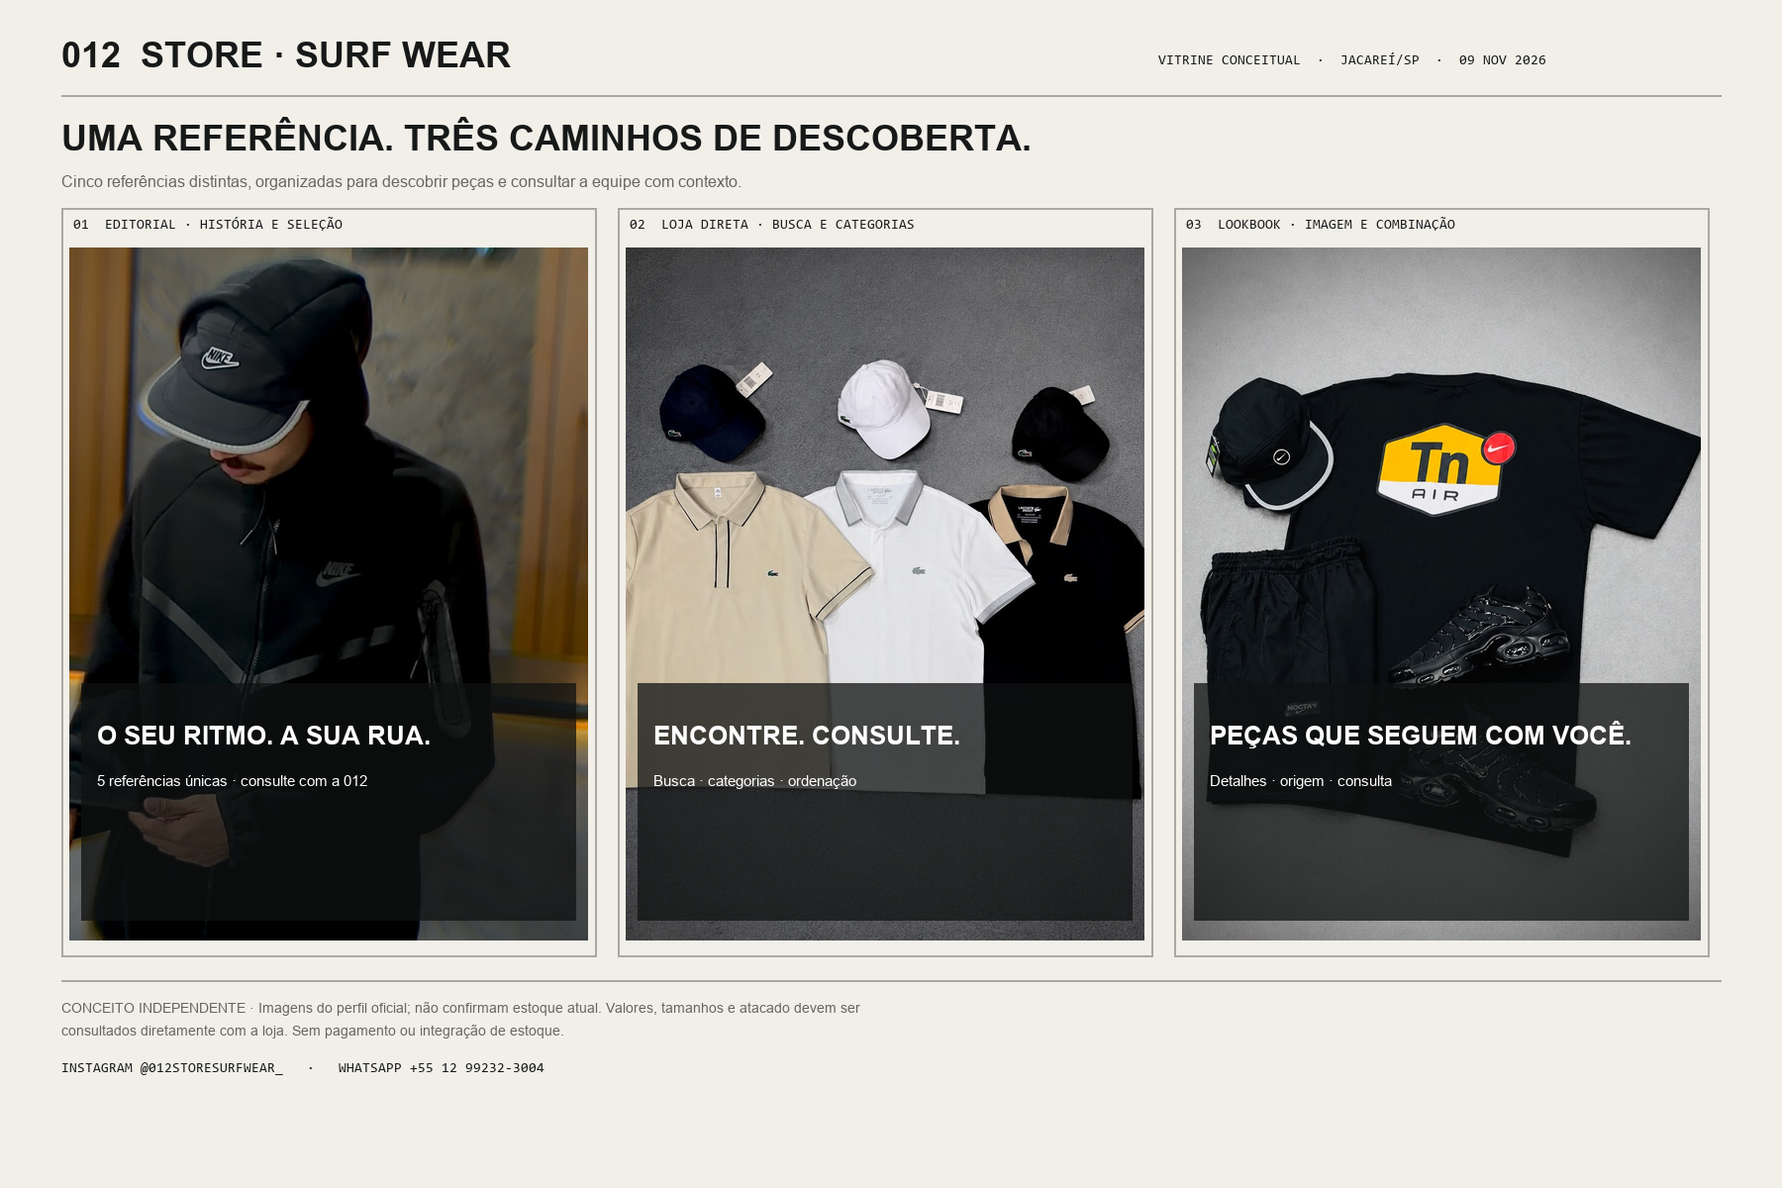
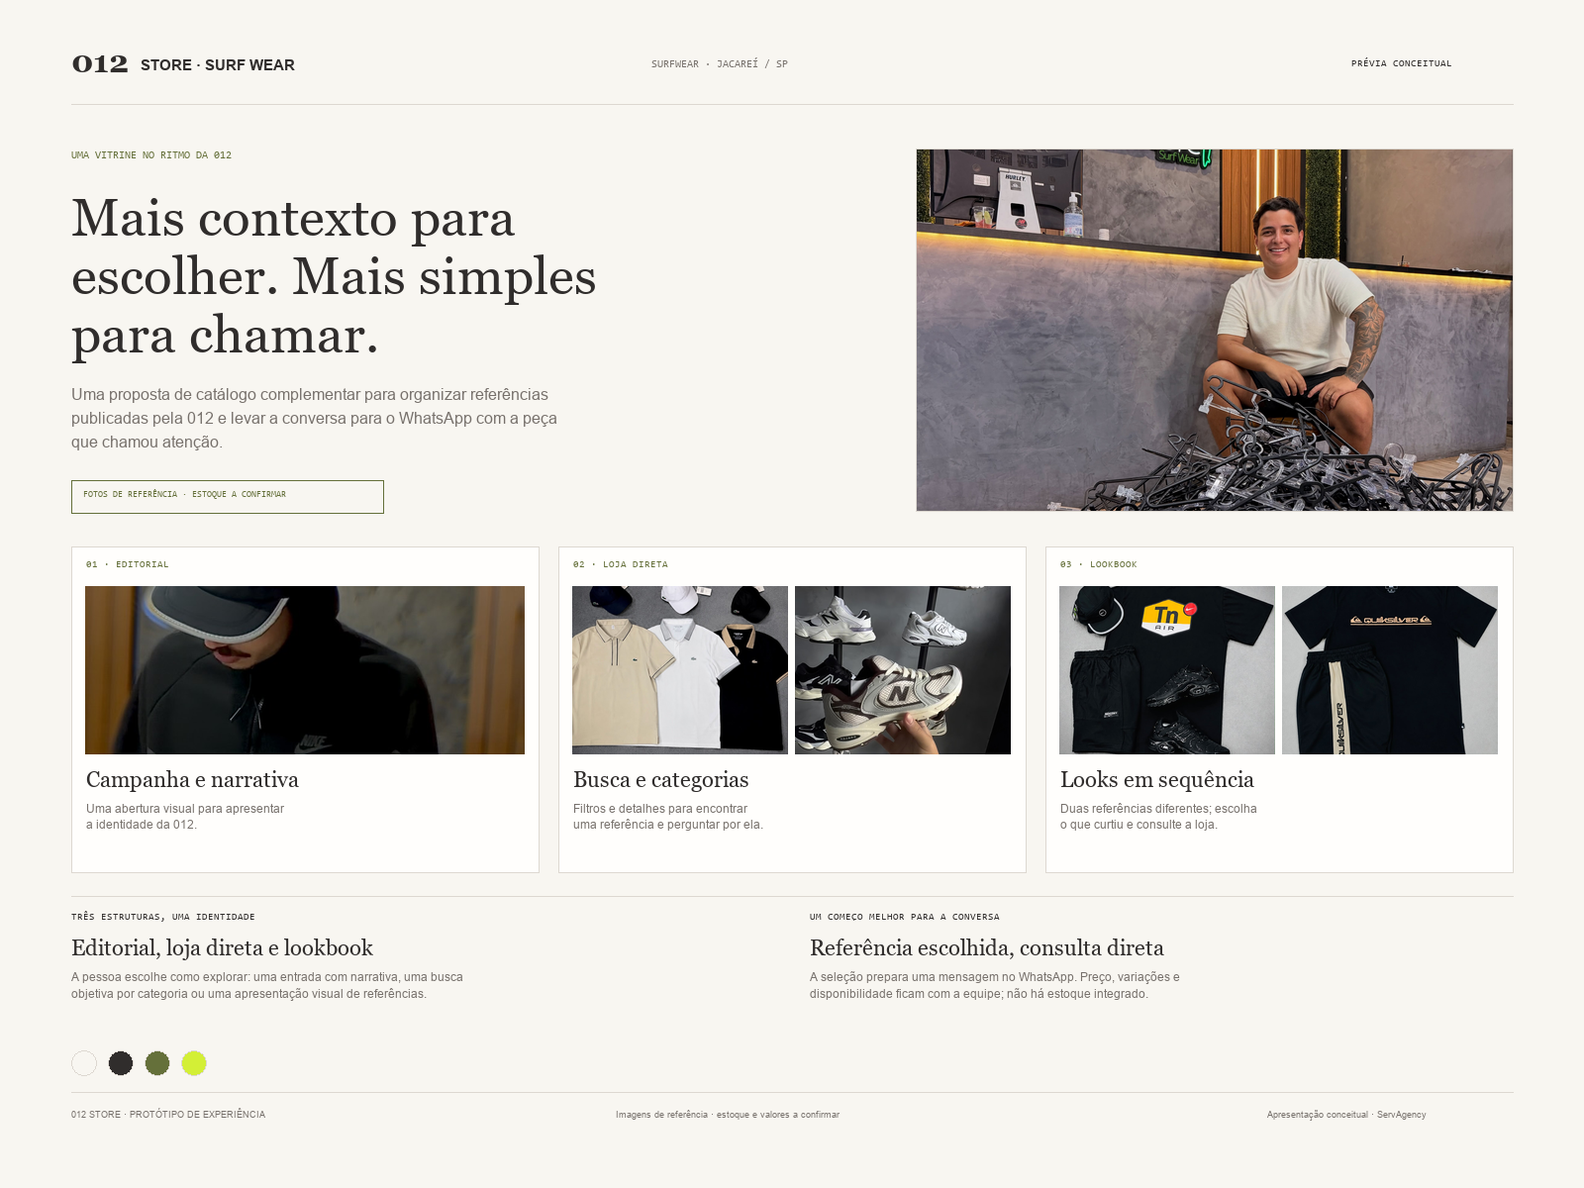
Redesign 012 Store presentation board in editorial style

diff --git a/arte/prancha.html b/arte/prancha.html
@@ -1,7 +1,21 @@
-<!doctype html><html lang="pt-BR"><head><meta charset="utf-8"><meta name="viewport" content="width=device-width,initial-scale=1"><title>012 Store · prancha de conceito</title><style>
-*{box-sizing:border-box}body{margin:0;background:#dddcd5;color:#171919;font-family:Arial,sans-serif}.board{width:1800px;height:1200px;margin:0 auto;background:#f1efe8;padding:54px 66px 34px;overflow:hidden}.head{display:flex;justify-content:space-between;align-items:flex-start;border-bottom:1px solid #b7b5ac;padding-bottom:21px}.logo{font-size:33px;font-weight:900;letter-spacing:-2px}.logo span{font-size:13px;letter-spacing:4px;border-left:4px solid #d3ef36;padding-left:9px;margin-left:8px}.kicker{font:10px 'Courier New',monospace;letter-spacing:2px}.title{display:flex;justify-content:space-between;align-items:end;padding:23px 0 23px}.title h1{font-size:46px;line-height:.91;letter-spacing:-2px;text-transform:uppercase;margin:0}.title h1 em{font-style:normal;color:#77860e}.title p{max-width:470px;color:#65655e;font-size:13px;line-height:1.6;margin:0}.cards{display:grid;grid-template-columns:repeat(3,1fr);gap:18px}.card{border:1px solid #c9c7bf;background:white}.label{height:46px;display:flex;align-items:center;justify-content:space-between;padding:0 13px;font:11px 'Courier New',monospace}.label b{font-size:18px;margin-right:8px}.window{height:785px;position:relative;overflow:hidden;background:#111}.window img{position:absolute;width:100%;height:100%;object-fit:cover}.tint{position:absolute;inset:0;background:linear-gradient(90deg,#f1efe8 0%,rgba(241,239,232,.93) 47%,transparent 90%)}.loja{background:#f3f3f0;padding:17px}.loja h3{font-size:28px;line-height:.88;margin:8px 0 14px}.loja .heroimg{position:relative;width:100%;height:420px;object-fit:cover;display:block}.tiles{display:grid;grid-template-columns:1fr 1fr;gap:8px;margin-top:8px}.tiles img{height:190px;position:static;object-fit:cover}.dark img{filter:brightness(.78) saturate(.8)}.dark .overlay{position:absolute;inset:0;background:linear-gradient(180deg,transparent 25%,rgba(8,10,9,.9));display:flex;flex-direction:column;justify-content:flex-end;padding:22px;color:white}.overlay h3{font-size:36px;line-height:.86;margin:12px 0}.overlay small{font:9px 'Courier New',monospace;letter-spacing:1px}.feature{display:flex;justify-content:space-between;gap:15px;padding:19px 0 17px;border-bottom:1px solid #bbb}.feature div{flex:1;border-top:2px solid #171919;padding-top:9px;font-size:10px;color:#555;line-height:1.5}.feature b{display:block;font-size:10px;color:#171919;letter-spacing:.7px;margin-bottom:3px;text-transform:uppercase}.foot{display:flex;justify-content:space-between;align-items:end;padding-top:15px}.foot p{font-size:9px;line-height:1.5;color:#666;max-width:1160px;margin:0}.pill{background:#171919;color:#d3ef36;padding:12px 15px;font:9px 'Courier New',monospace;letter-spacing:1px}@media print{body{background:white}.board{margin:0}}
-</style></head><body><main class="board"><header class="head"><div class="logo">012<span>STORE · SURF WEAR</span></div><div class="kicker">VITRINE CONCEITUAL · JACAREÍ / SP · 09 NOV 2026</div></header><section class="title"><h1>Uma referência.<br><em>Três caminhos de descoberta.</em></h1><p>Uma vitrine complementar para organizar peças publicadas pela 012 Store, com consulta direta à equipe.</p></section><section class="cards">
-<article class="card"><header class="label"><span><b>01</b> EDITORIAL · HISTÓRIA E SELEÇÃO</span><span>●</span></header><div class="window"><img src="../assets/catalog-tech-fleece.jpg"><div class="tint"></div><div style="position:absolute;left:22px;top:48px;color:#171919"><small style="font:9px 'Courier New'">SURF · STREET · JACAREÍ</small><h3 style="font-size:43px;line-height:.86;letter-spacing:-2px;margin:25px 0">O seu ritmo.<br>A sua rua.</h3><p style="font-size:10px;max-width:180px;line-height:1.5">Cinco referências distintas. Explore, filtre e consulte cada peça com a 012.</p><span class="pill" style="display:inline-block;margin-top:12px">EXPLORAR PEÇAS ↓</span></div></div></article>
-<article class="card"><header class="label"><span><b>02</b> LOJA DIRETA · BUSCA E CATEGORIA</span><span>●</span></header><div class="window loja"><small style="font:9px 'Courier New'">TUDO　 CONJUNTOS　 POLOS　 CALÇADOS</small><h3>Encontre.<br>Consulte.</h3><img class="heroimg" src="../assets/catalog-polos.jpg"><div class="tiles"><img src="../assets/catalog-quiksilver-set.jpg"><img src="../assets/catalog-sneakers.jpg"></div></div></article>
-<article class="card"><header class="label"><span><b>03</b> LOOKBOOK · IMAGEM E COMBINAÇÃO</span><span>●</span></header><div class="window dark"><img src="../assets/catalog-tnf-set.jpg"><div class="overlay"><small>012 · CINCO REFERÊNCIAS ÚNICAS</small><h3>Peças que<br>seguem com você.</h3><small>BUSCA　✳　FILTROS　✳　CONSULTA</small></div></div></article></section>
-<section class="feature"><div><b>Cinco referências únicas</b>Sem duplicar ângulos ou variantes como itens.</div><div><b>Consulta com contexto</b>Selecione várias peças para montar mensagem no WhatsApp.</div><div><b>Origem transparente</b>Detalhes abrem a publicação correspondente do Instagram.</div><div><b>Catálogo navegável</b>Busca, filtros, ordenação e cartões adaptáveis ao celular.</div></section><footer class="foot"><p>Conceito independente, não oficial. Fotos são referências publicadas pela loja, não confirmação de estoque atual. Valores, tamanhos, disponibilidade e atacado devem ser confirmados diretamente. Sem pagamento ou integração de estoque.<br>Endereço e WhatsApp exibidos a partir do perfil oficial; confirmar informações antes de uso operacional.</p><span class="pill">012 STORE · CONCEITO DIGITAL</span></footer></main></body></html>
+<!doctype html>
+<html lang="pt-BR">
+<head>
+<meta charset="utf-8">
+<meta name="viewport" content="width=device-width,initial-scale=1">
+<title>012 Store · prancha de conceito</title>
+<style>
+:root{--paper:#f8f6f1;--card:#fffefc;--ink:#302d2c;--muted:#77716c;--line:#ddd8d1;--olive:#65703a;--lime:#d3ef36;--serif:Georgia,'Times New Roman',serif;--sans:Arial,sans-serif;--mono:'Courier New',monospace}*{box-sizing:border-box}body{margin:0;background:#e8e5df;color:var(--ink);font-family:var(--sans)}.board{width:min(1600px,100%);min-height:1200px;margin:auto;padding:43px 72px 30px;background:var(--paper)}header{height:63px;display:flex;align-items:center;border-bottom:1px solid var(--line);gap:14px}.mark{font:700 32px var(--serif)}.brand{font-weight:700;letter-spacing:.12em;font-size:15px}.context{margin-left:auto;margin-right:auto;color:var(--muted);font:11px var(--mono);letter-spacing:.05em}.concept{font:10px var(--mono);letter-spacing:.1em}.intro{display:grid;grid-template-columns:1fr .88fr;gap:7vw;align-items:center;padding:44px 0 36px}.eyebrow{font:11px var(--mono);letter-spacing:.09em;text-transform:uppercase;color:var(--olive)}h1{font:400 clamp(44px,4vw,59px)/1.02 var(--serif);letter-spacing:-.045em;margin:20px 0 20px}.lead{max-width:670px;color:var(--muted);font-size:16px;line-height:1.65;margin:0 0 18px}.badge{display:inline-block;padding:9px 12px;border:1px solid var(--olive);font:9px var(--mono);letter-spacing:.06em;text-transform:uppercase}.hero-image{height:366px;width:100%;object-fit:cover;object-position:center 42%;border:1px solid var(--line)}.cards{display:grid;grid-template-columns:repeat(3,minmax(0,1fr));gap:20px}.card{background:var(--card);border:1px solid var(--line);padding:14px}.card-label{font:10px var(--mono);letter-spacing:.08em;text-transform:uppercase;color:var(--olive);padding:0 0 12px}.photos{height:170px;display:grid;gap:7px;overflow:hidden}.photos.single{grid-template-columns:1fr}.photos.double{grid-template-columns:1fr 1fr}.photos img{width:100%;height:100%;object-fit:cover}.card h2{font:400 22px var(--serif);margin:12px 0 6px}.card p{font-size:12px;line-height:1.55;color:var(--muted);margin:0}.summary{display:grid;grid-template-columns:1fr 1fr;gap:64px;padding:28px 0 0;margin-top:30px;border-top:1px solid var(--line)}.summary h2{font:400 22px var(--serif);margin:9px 0}.summary p{font-size:12px;line-height:1.6;color:var(--muted);margin:0}.swatches{display:flex;gap:10px;margin:15px 0 0}.swatches span{width:25px;height:25px;border-radius:50%;border:1px solid var(--line)}footer{margin-top:18px;border-top:1px solid var(--line);padding:15px 0 0;display:flex;justify-content:space-between;gap:20px;color:var(--muted);font-size:9px}.footer-center{margin:auto}@media(max-width:900px){.board{min-height:100vh;padding:28px 24px}.intro{gap:26px}.cards{gap:12px}.card{padding:10px}.card h2{font-size:19px}.photos{height:140px}.summary{gap:25px}}@media(max-width:650px){header{height:auto;min-height:62px;flex-wrap:wrap;gap:7px}.context{margin-left:auto}.concept{width:100%;margin:0 0 10px}.intro{grid-template-columns:1fr;padding:30px 0}.hero-image{height:260px}.cards{grid-template-columns:1fr}.photos{height:190px}.summary{grid-template-columns:1fr;gap:20px}footer{flex-wrap:wrap}.footer-center{margin:0}}
+</style>
+</head>
+<body><main class="board">
+<header><span class="mark">012</span><span class="brand">STORE · SURF WEAR</span><span class="context">SURFWEAR · JACAREÍ / SP</span><span class="concept">PRÉVIA CONCEITUAL</span></header>
+<section class="intro"><div><p class="eyebrow">Uma vitrine no ritmo da 012</p><h1>Mais contexto para escolher. Mais simples para chamar.</h1><p class="lead">Uma proposta de catálogo complementar para organizar referências publicadas pela 012 e levar a conversa para o WhatsApp com a peça que chamou atenção.</p><span class="badge">Fotos de referência · estoque a confirmar</span></div><img class="hero-image" src="../assets/loja-012.jpg" alt="Imagem editorial da 012 Store"></section>
+<section class="cards" aria-label="Três caminhos visuais">
+<article class="card"><div class="card-label">01 · Editorial</div><div class="photos single"><img src="../assets/catalog-tech-fleece.jpg" alt="Referência de conjunto Tech Fleece"></div><h2>Campanha e narrativa</h2><p>Uma abertura visual para apresentar a identidade da 012.</p></article>
+<article class="card"><div class="card-label">02 · Loja direta</div><div class="photos double"><img src="../assets/catalog-polos.jpg" alt="Referência de polos"><img src="../assets/catalog-sneakers.jpg" alt="Referência de calçados"></div><h2>Busca e categorias</h2><p>Filtros e detalhes para encontrar uma referência e perguntar por ela.</p></article>
+<article class="card"><div class="card-label">03 · Lookbook</div><div class="photos double"><img src="../assets/catalog-tnf-set.jpg" alt="Referência de conjunto TNF Air"><img src="../assets/catalog-quiksilver-set.jpg" alt="Referência de conjunto Quiksilver"></div><h2>Looks em sequência</h2><p>Duas referências diferentes; escolha o que curtiu e consulte a loja.</p></article>
+</section>
+<section class="summary"><div><p class="eyebrow">Três estruturas, uma identidade</p><h2>Editorial, loja direta e lookbook</h2><p>A pessoa escolhe como explorar: uma entrada com narrativa, uma busca objetiva por categoria ou uma apresentação visual de referências.</p><div class="swatches" aria-label="Paleta visual"><span style="background:#f8f6f1"></span><span style="background:#302d2c"></span><span style="background:#65703a"></span><span style="background:#d3ef36"></span></div></div><div><p class="eyebrow">Um começo melhor para a conversa</p><h2>Referência escolhida, consulta direta</h2><p>A seleção prepara uma mensagem no WhatsApp. Preço, variações e disponibilidade ficam com a equipe; não há estoque integrado.</p></div></section>
+<footer><span>012 STORE · PROTÓTIPO DE EXPERIÊNCIA</span><span class="footer-center">Imagens de referência · estoque e valores a confirmar</span><span>Apresentação conceitual · ServAgency</span></footer>
+</main></body></html>

diff --git a/arte/build_board.py b/arte/build_board.py
@@ -1,37 +1,149 @@
-from PIL import Image, ImageDraw, ImageFont, ImageOps, ImageEnhance
 from pathlib import Path
-import os
-base=Path(r'C:\Users\Home\Documents\ChatGPT\prospecção\012-store-jacarei-conceito')
-W,H=1800,1200
-paper='#f1efe8'; ink='#171919'; lime='#d3ef36'; muted='#66665f'
-im=Image.new('RGB',(W,H),paper); d=ImageDraw.Draw(im)
-def font(name,size):
-    for p in [r'C:\Windows\Fonts\arialbd.ttf' if name=='bold' else r'C:\Windows\Fonts\arial.ttf']:
-        try:return ImageFont.truetype(p,size)
-        except:pass
-    return ImageFont.load_default()
-try: mono=ImageFont.truetype(r'C:\Windows\Fonts\consola.ttf',14)
-except: mono=font('',14)
-d.text((62,35),'012  STORE · SURF WEAR',font=font('bold',36),fill=ink)
-d.text((1170,54),'VITRINE CONCEITUAL  ·  JACAREÍ/SP  ·  09 NOV 2026',font=mono,fill=ink)
-d.line((62,96,1738,96),fill='#aaa89f',width=2)
-d.text((62,119),'UMA REFERÊNCIA. TRÊS CAMINHOS DE DESCOBERTA.',font=font('bold',36),fill=ink)
-d.text((62,174),'Cinco referências distintas, organizadas para descobrir peças e consultar a equipe com contexto.',font=font('',16),fill=muted)
-assets=['catalog-tech-fleece.jpg','catalog-polos.jpg','catalog-tnf-set.jpg']
-labels=['01  EDITORIAL · HISTÓRIA E SELEÇÃO','02  LOJA DIRETA · BUSCA E CATEGORIAS','03  LOOKBOOK · IMAGEM E COMBINAÇÃO']
-for i,(asset,label) in enumerate(zip(assets,labels)):
-    x=62+i*562
-    d.rectangle((x,210,x+540,966),outline='#aaa89f',width=2)
-    d.text((x+12,220),label,font=mono,fill=ink)
-    photo=Image.open(base/'assets'/asset).convert('RGB')
-    photo=ImageOps.fit(photo,(524,700),method=Image.Resampling.LANCZOS)
-    im.paste(photo,(x+8,250))
-    shade=Image.new('RGBA',(500,240),(15,17,17,190)); im.paste(shade,(x+20,690),shade); d=ImageDraw.Draw(im)
-    titles=[('O SEU RITMO. A SUA RUA.','5 referências únicas · consulte com a 012'),('ENCONTRE. CONSULTE.','Busca · categorias · ordenação'),('PEÇAS QUE SEGUEM COM VOCÊ.','Detalhes · origem · consulta')]
-    d.text((x+36,728),titles[i][0],font=font('bold',26),fill='white')
-    d.text((x+36,780),titles[i][1],font=font('',15),fill='white')
-d.line((62,990,1738,990),fill='#aaa89f',width=2)
-d.text((62,1010),'CONCEITO INDEPENDENTE · Imagens do perfil oficial; não confirmam estoque atual. Valores, tamanhos e atacado devem ser',font=font('',14),fill=muted)
-d.text((62,1033),'consultados diretamente com a loja. Sem pagamento ou integração de estoque.',font=font('',14),fill=muted)
-d.text((62,1072),'INSTAGRAM @012STORESURFWEAR_   ·   WHATSAPP +55 12 99232-3004',font=mono,fill=ink)
-im.save(base/'arte'/'012-store-prancha.png',quality=95)
+
+from PIL import Image, ImageDraw, ImageFont, ImageOps
+
+
+BASE = Path(__file__).resolve().parents[1]
+OUTPUT = BASE / 'arte' / '012-store-prancha.png'
+WIDTH, HEIGHT = 1600, 1200
+PAPER = '#F8F6F1'
+CARD = '#FFFEFC'
+INK = '#302D2C'
+MUTED = '#77716C'
+LINE = '#DDD8D1'
+OLIVE = '#65703A'
+LIME = '#D3EF36'
+
+canvas = Image.new('RGB', (WIDTH, HEIGHT), PAPER)
+draw = ImageDraw.Draw(canvas)
+
+
+def font(filename, size):
+    return ImageFont.truetype(Path(r'C:\Windows\Fonts') / filename, size)
+
+
+serif = lambda size: font('georgia.ttf', size)
+serif_bold = lambda size: font('georgiab.ttf', size)
+sans = lambda size: font('arial.ttf', size)
+sans_bold = lambda size: font('arialbd.ttf', size)
+mono = lambda size: font('consola.ttf', size)
+
+
+def fitted_image(filename, box, focus=(0.5, 0.5)):
+    image = Image.open(BASE / 'assets' / filename).convert('RGB')
+    image = ImageOps.fit(image, box[2:], method=Image.Resampling.LANCZOS, centering=focus)
+    canvas.paste(image, box[:2])
+
+
+def label(x, y, text, color=OLIVE, size=11):
+    draw.text((x, y), text.upper(), font=mono(size), fill=color)
+
+
+margin = 72
+
+# Brand line
+draw.text((margin, 43), '012', font=serif_bold(32), fill=INK)
+draw.text((142, 57), 'STORE · SURF WEAR', font=sans_bold(15), fill=INK)
+draw.text((658, 59), 'SURFWEAR · JACAREÍ / SP', font=mono(11), fill=MUTED)
+label(1365, 59, 'Prévia conceitual', color=INK, size=10)
+draw.line((margin, 105, WIDTH - margin, 105), fill=LINE, width=1)
+
+# Intro and a non-catalog photo keep all five product references distinct below.
+label(margin, 151, 'Uma vitrine no ritmo da 012', size=11)
+draw.text((margin, 189), 'Mais contexto para', font=serif(53), fill=INK)
+draw.text((margin, 248), 'escolher. Mais simples', font=serif(53), fill=INK)
+draw.text((margin, 307), 'para chamar.', font=serif(53), fill=INK)
+draw.multiline_text(
+    (margin, 389),
+    'Uma proposta de catálogo complementar para organizar referências\n'
+    'publicadas pela 012 e levar a conversa para o WhatsApp com a peça\n'
+    'que chamou atenção.',
+    font=sans(16), fill=MUTED, spacing=9,
+)
+draw.rectangle((margin, 485, margin + 315, 518), outline=OLIVE, width=1)
+label(margin + 12, 495, 'Fotos de referência · estoque a confirmar', size=9)
+
+fitted_image('loja-012.jpg', (925, 150, 603, 366), focus=(0.5, 0.45))
+draw.rectangle((925, 150, 1528, 516), outline=LINE, width=1)
+
+# Three concise concept cards. The five different catalog photos appear once each.
+cards = [
+    {
+        'x': 72,
+        'label': '01 · Editorial',
+        'title': 'Campanha e narrativa',
+        'body': 'Uma abertura visual para apresentar\na identidade da 012.',
+        'images': [('catalog-tech-fleece.jpg', (0.5, 0.35))],
+    },
+    {
+        'x': 564,
+        'label': '02 · Loja direta',
+        'title': 'Busca e categorias',
+        'body': 'Filtros e detalhes para encontrar\numa referência e perguntar por ela.',
+        'images': [
+            ('catalog-polos.jpg', (0.5, 0.52)),
+            ('catalog-sneakers.jpg', (0.5, 0.5)),
+        ],
+    },
+    {
+        'x': 1056,
+        'label': '03 · Lookbook',
+        'title': 'Looks em sequência',
+        'body': 'Duas referências diferentes; escolha\no que curtiu e consulte a loja.',
+        'images': [
+            ('catalog-tnf-set.jpg', (0.5, 0.52)),
+            ('catalog-quiksilver-set.jpg', (0.5, 0.48)),
+        ],
+    },
+]
+card_width, card_top, card_bottom = 472, 552, 881
+for card in cards:
+    x = card['x']
+    draw.rectangle((x, card_top, x + card_width, card_bottom), fill=CARD, outline=LINE, width=1)
+    label(x + 15, card_top + 13, card['label'], size=10)
+    photo_y, photo_h = card_top + 40, 170
+    images = card['images']
+    if len(images) == 1:
+        fitted_image(images[0][0], (x + 14, photo_y, card_width - 28, photo_h), images[0][1])
+    else:
+        gap, inset = 7, 14
+        tile_width = (card_width - inset * 2 - gap) // 2
+        for index, (filename, focus) in enumerate(images):
+            fitted_image(filename, (x + inset + index * (tile_width + gap), photo_y, tile_width, photo_h), focus)
+    draw.text((x + 15, photo_y + photo_h + 12), card['title'], font=serif(22), fill=INK)
+    draw.multiline_text((x + 15, photo_y + photo_h + 48), card['body'], font=sans(12), fill=MUTED, spacing=5)
+
+# Practical rationale in the two-column structure of the supplied examples.
+summary_y = 921
+draw.line((margin, summary_y - 16, WIDTH - margin, summary_y - 16), fill=LINE, width=1)
+label(margin, summary_y, 'Três estruturas, uma identidade', color=INK, size=10)
+draw.text((margin, summary_y + 23), 'Editorial, loja direta e lookbook', font=serif(22), fill=INK)
+draw.multiline_text(
+    (margin, summary_y + 59),
+    'A pessoa escolhe como explorar: uma entrada com narrativa, uma busca\n'
+    'objetiva por categoria ou uma apresentação visual de referências.',
+    font=sans(12), fill=MUTED, spacing=6,
+)
+
+right_x = 818
+label(right_x, summary_y, 'Um começo melhor para a conversa', color=INK, size=10)
+draw.text((right_x, summary_y + 23), 'Referência escolhida, consulta direta', font=serif(22), fill=INK)
+draw.multiline_text(
+    (right_x, summary_y + 59),
+    'A seleção prepara uma mensagem no WhatsApp. Preço, variações e\n'
+    'disponibilidade ficam com a equipe; não há estoque integrado.',
+    font=sans(12), fill=MUTED, spacing=6,
+)
+
+# Signal-lime swatch retains a quiet link to the site's visual identity.
+for index, color in enumerate((PAPER, INK, OLIVE, LIME)):
+    x = margin + index * 37
+    draw.ellipse((x, 1061, x + 25, 1086), fill=color, outline=LINE, width=1)
+
+draw.line((margin, 1103, WIDTH - margin, 1103), fill=LINE, width=1)
+draw.text((margin, 1120), '012 STORE · PROTÓTIPO DE EXPERIÊNCIA', font=sans(9), fill=MUTED)
+draw.text((622, 1120), 'Imagens de referência · estoque e valores a confirmar', font=sans(9), fill=MUTED)
+draw.text((1280, 1120), 'Apresentação conceitual · ServAgency', font=sans(9), fill=MUTED)
+
+canvas.save(OUTPUT, optimize=True)
+print(f'Prancha gerada: {OUTPUT} ({WIDTH}x{HEIGHT})')

diff --git a/BRIEF_DO_PROJETO.md b/BRIEF_DO_PROJETO.md
@@ -18,6 +18,7 @@ Uma vitrine complementar pode organizar referências publicadas, permitir busca/
 - Busca, filtros, seleção de itens e consulta pré-preenchida no WhatsApp.
 - Catálogo ampliado para cinco referências visuais distintas (três conjuntos, polos agrupadas numa referência e calçados), com imagens próprias e sem repetir ângulos ou variantes como itens separados.
 - Navegação por categoria, busca, ordenação e painel de detalhes com a publicação original e ação para adicionar/remover da consulta.
+- Prancha de apresentação em layout editorial claro e arejado: cabeçalho, chamada com foto, três cartões visuais, síntese em duas colunas e rodapé discreto. As cinco referências aparecem uma vez cada.
 - Fotos refletem posts, não estoque atual. Preços, disponibilidade, tamanhos além dos anunciados no post, condições de atacado, entrega e políticas ficam para confirmação direta.
 - Sem pagamento, pedido efetivado, backend ou estoque integrado.
 - A prancha mostra as três composições como arte demonstrativa.
